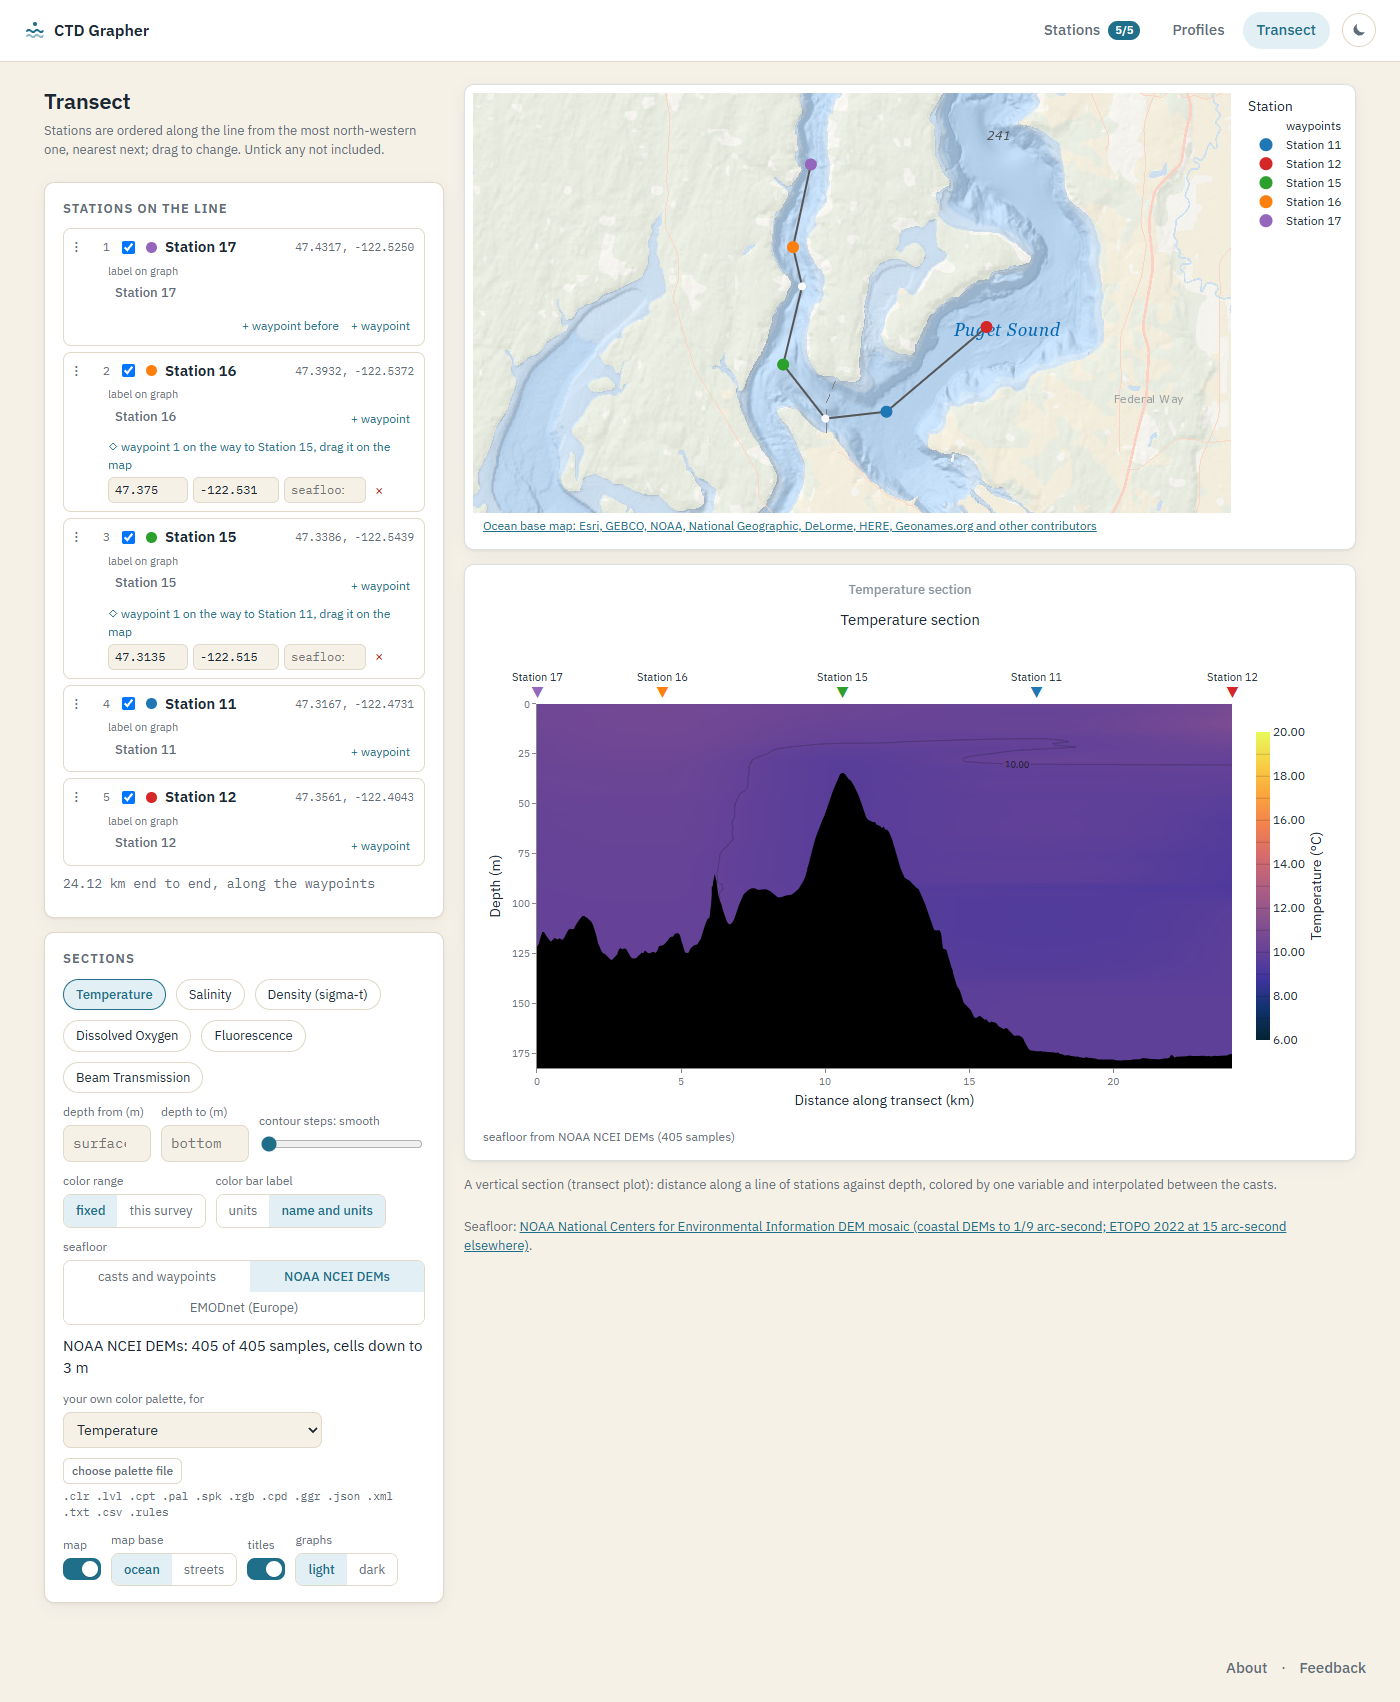
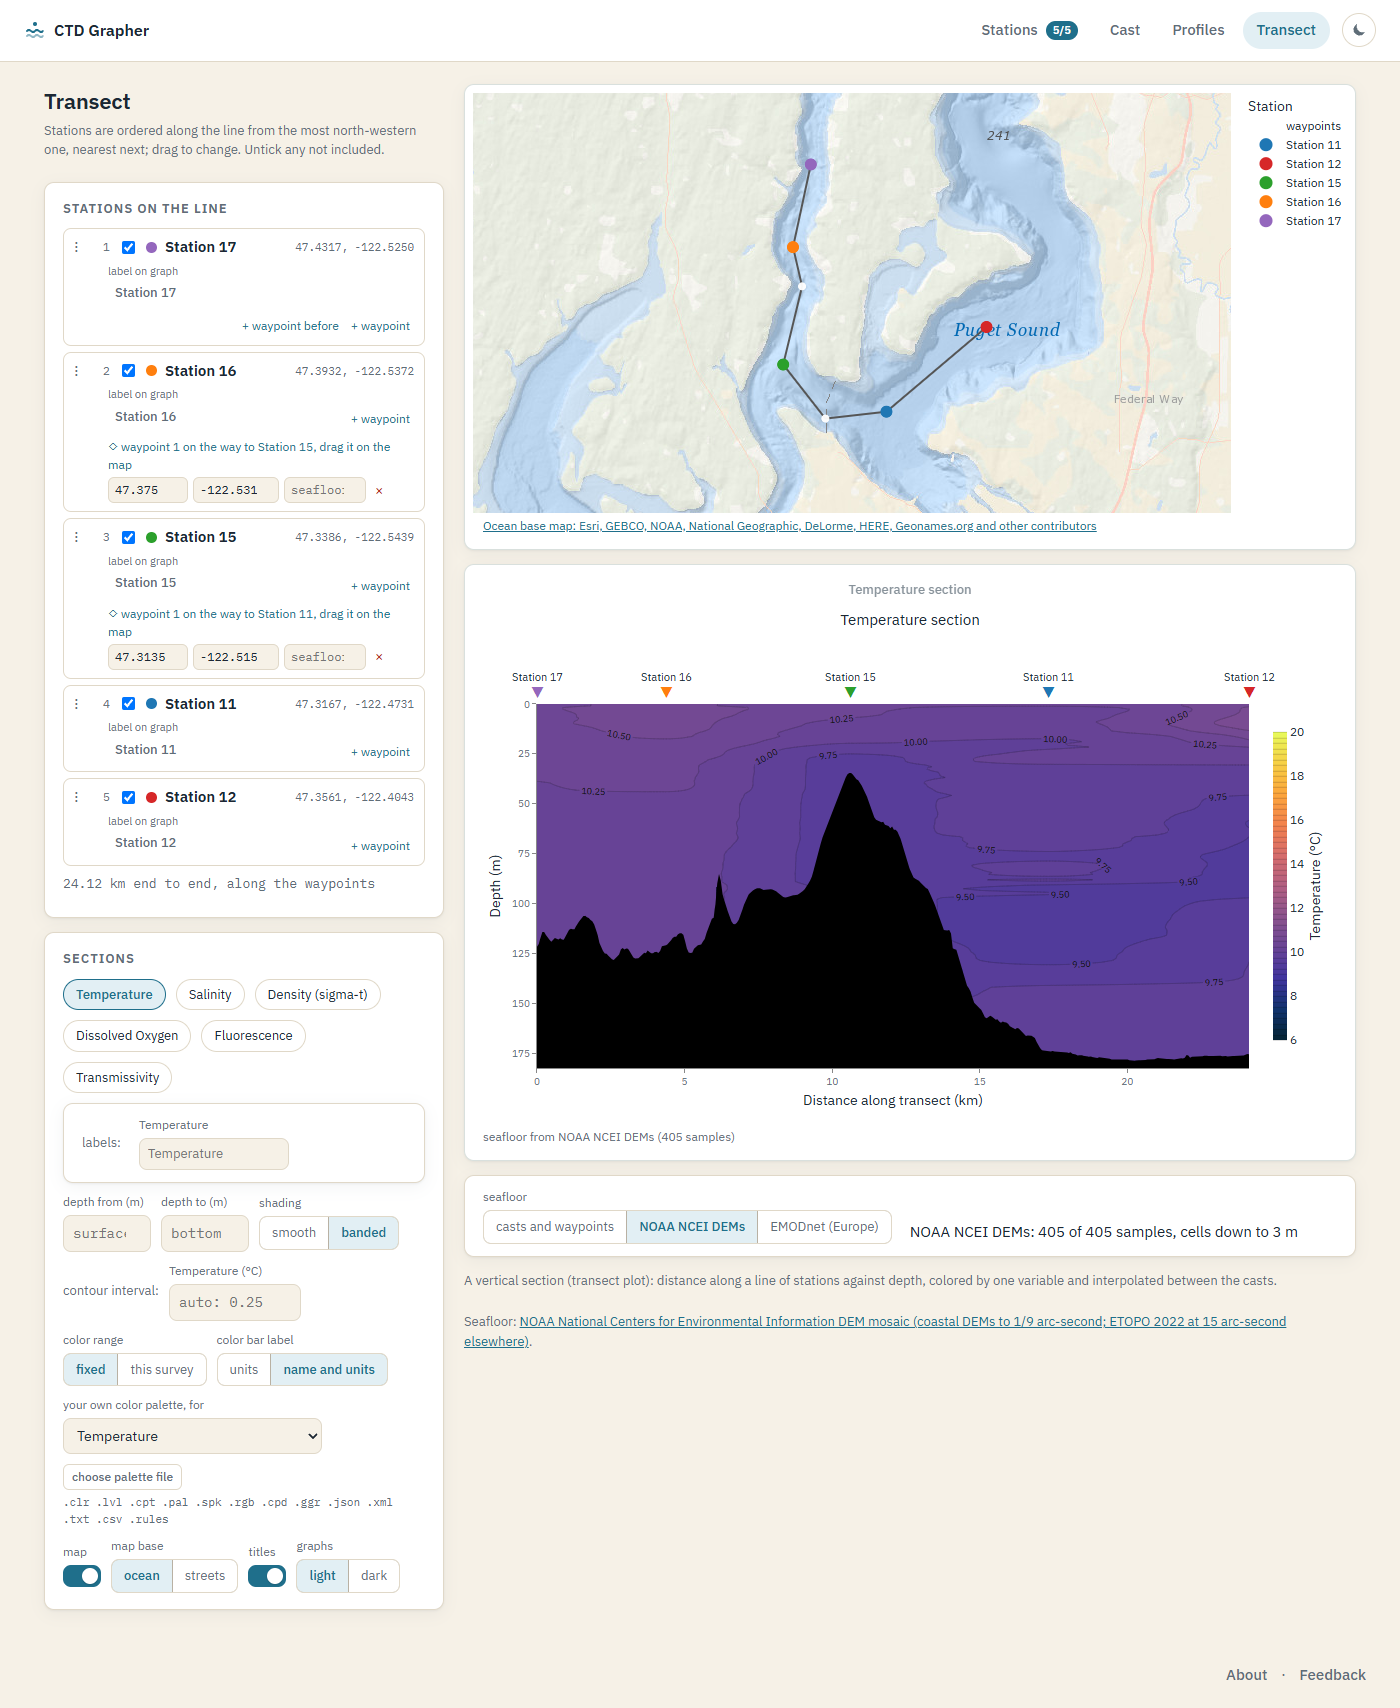
Temperature contours every 0.25 °C by default; refresh the transect screenshot

diff --git a/src/lib/colors.ts b/src/lib/colors.ts
@@ -39,9 +39,9 @@ export const SCALES: Record<string, ColorStops> = {
 // the oxy map's red edge sits at the 2 mg/L hypoxia threshold and its yellow
 // edge at 100 % saturation.
 type Fixed = { range: [number, number]; tick: number }
-interface Default { scale: string; fixed: Fixed | Record<string, Fixed> | null }
+interface Default { scale: string; fixed: Fixed | Record<string, Fixed> | null; interval?: number }  // interval: the default contour interval, in the variable's units
 export const DEFAULTS: Record<string, Default> = {
-  'Temperature': { scale: 'thermal', fixed: { range: [6, 20], tick: 2 } },
+  'Temperature': { scale: 'thermal', fixed: { range: [6, 20], tick: 2 }, interval: 0.25 },
   'Salinity': { scale: 'haline', fixed: { range: [20, 32], tick: 2 } },
   'Density (sigma-t)': { scale: 'dense', fixed: { range: [18, 26], tick: 1 } },
   'Dissolved Oxygen': { scale: 'oxy', fixed: { 'mg/l': { range: [0, 10], tick: 2 }, 'ml/l': { range: [0, 7], tick: 1 }, '% sat': { range: [0, 125], tick: 25 }, 'mol/kg': { range: [0, 350], tick: 50 } } },
@@ -64,7 +64,7 @@ export function niceStep(span: number, n = 8): number {
   return [1, 2, 2.5, 5, 10].map(m => m * mag).find(s => s >= raw) ?? raw
 }
 
-export function defaultScale(variable: string, units: string): { colorscale: ColorStops; range: [number, number] | null; tick: number } {
+export function defaultScale(variable: string, units: string): { colorscale: ColorStops; range: [number, number] | null; tick: number; interval: number | null } {
   const d = DEFAULTS[variable] ?? { scale: 'deep', fixed: null }
   let fixed: Fixed | null = null
   if (d.fixed && 'range' in d.fixed) fixed = d.fixed as Fixed
@@ -73,7 +73,7 @@ export function defaultScale(variable: string, units: string): { colorscale: Col
     const hit = Object.entries(d.fixed as Record<string, Fixed>).find(([k]) => u.includes(k))
     fixed = hit ? hit[1] : null
   }
-  return { colorscale: SCALES[d.scale], range: fixed?.range ?? null, tick: fixed?.tick ?? 1 }
+  return { colorscale: SCALES[d.scale], range: fixed?.range ?? null, tick: fixed?.tick ?? 1, interval: d.interval ?? null }
 }
 
 export function percentileRange(values: Iterable<number | null>, lo = 0.02, hi = 0.98): [number, number] | null {

diff --git a/src/pages/Transect.tsx b/src/pages/Transect.tsx
@@ -401,7 +401,7 @@ export default function Transect() {
                 const units = prettyUnits(variables.find(x => x.name === variable)?.units ?? '')
                 return (
                   <label key={variable} className="field">{labelFor(variable, settings.variableLabels)}{units ? ` (${units})` : ''}
-                    <input type="number" min={0} step="any" value={settings.contourInterval[variable] ?? ''} placeholder={result ? `auto: ${result.intervalAuto}` : 'auto'} title={result ? `Any interval down to ${result.resolution}, the resolution of the data` : undefined} style={{ width: 110 }} aria-label={`Contour interval for ${variable}`}
+                    <input type="number" min={0} step="any" value={settings.contourInterval[variable] ?? ''} placeholder={result ? `auto: ${result.intervalAuto}` : 'auto'} title={result ? `Any interval down to ${result.resolution}, the resolution of the data` : undefined} style={{ width: 132 }} aria-label={`Contour interval for ${variable}`}
                       onChange={e => { const next = { ...settings.contourInterval }; if (e.target.value.trim()) next[variable] = e.target.value; else delete next[variable]; setSettings({ contourInterval: next }) }} />
                   </label>
                 )

diff --git a/src/lib/section.ts b/src/lib/section.ts
@@ -331,10 +331,10 @@ export function buildSection(stations: SectionStation[], opts: SectionOptions): 
   if (!range || range[0] === range[1]) { range = range ? [range[0] - 0.5, range[1] + 0.5] : [0, 1]; tick = niceStep(range[1] - range[0], 7) }
 
   // contour lines every round interval, about 16 across the colour range
-  // unless one is given, each on a multiple of it; a bar tick or a line label
+  // unless one is given (temperature: 0.25 °C), each on a multiple of it; a bar tick or a line label
   // carries only the decimals its step needs. Any interval goes, down to the
   // resolution the data were logged at.
-  const auto = niceStep(range[1] - range[0], 16)
+  const auto = def.interval ?? niceStep(range[1] - range[0], 16)
   const dataDecimals = Math.min(6, Math.max(0, ...windowed.map(w => decimalsIn(w.v))))
   const resolution = 10 ** -dataDecimals
   let interval = opts.interval && opts.interval > 0 ? opts.interval : auto
